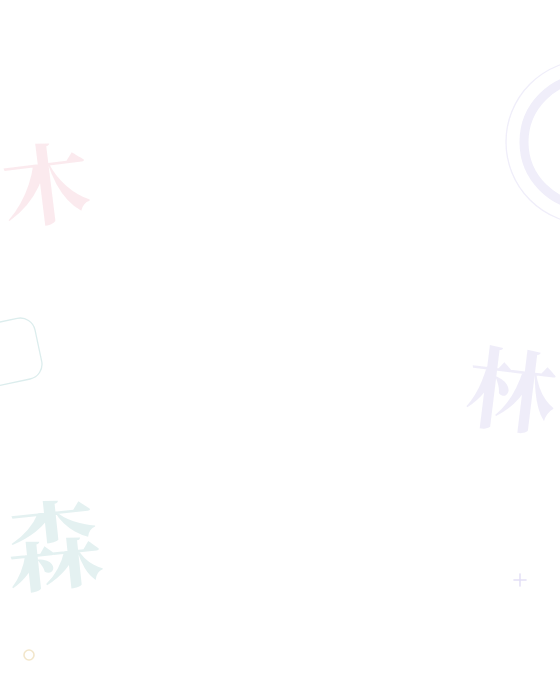
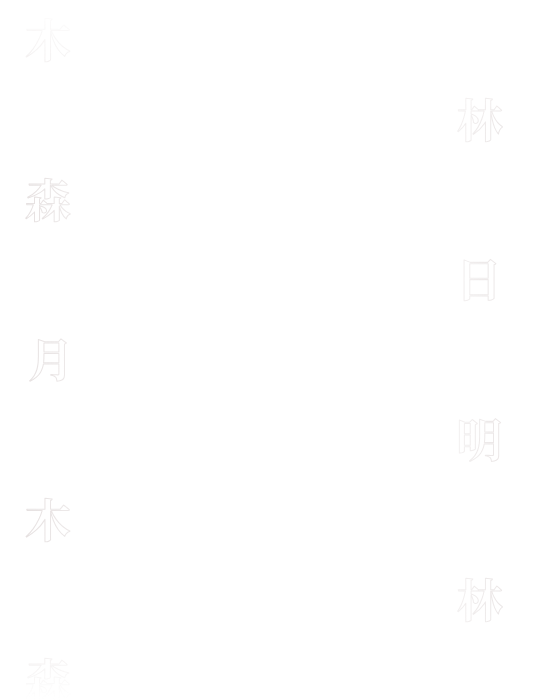
Blend background kanji into a subtle repeating print

Changed region(s): [[0.0304, 0.72, 0.1821, 0.84], [0.0304, 0.93, 0.0607, 0.96]]

diff --git a/src/theme.css b/src/theme.css
@@ -8,7 +8,7 @@
   --green:var(--accent);--muted:#687187;--line:#e8eaf1;
   --coral:var(--accent);--paper:#fff;
 }
-body{background:#fffefa url('/ui-background.svg') repeat;background-size:640px 720px}
+body{background:#fffefa url('/ui-background.svg?v=kanji-print') repeat;background-size:288px 480px}
 #app{position:relative;z-index:1}
 button{font-weight:750}
 button:focus-visible,a:focus-visible,input:focus-visible{outline-color:#5369ef}
@@ -64,7 +64,7 @@ button:active:not(:disabled){transform:translateY(1px)}
 .stat:last-child strong{color:#00a56c}
 .minor-stats{gap:26px}
 .mobile-pause{background:#f6f6f7;border:1px solid #e5e7ec;color:#526078;display:grid;place-items:center}
-.board{background:#fff url('/board-background.svg') center / 100% 100% no-repeat;border-radius:0 0 14px 14px;margin:0 -10px;border-bottom:1px solid #ecedf5}
+.board{background:#fff url('/board-background.svg?v=kanji-print') center / 100% 100% no-repeat;border-radius:0 0 14px 14px;margin:0 -10px;border-bottom:1px solid #ecedf5}
 .board-status{color:#65718b;font-weight:700;font-size:14px;top:18px;right:18px}
 .gesture-cue{position:absolute;top:12px;bottom:auto;left:50%;transform:translateX(-50%);display:flex;align-items:center;gap:9px;color:#5c6f9f;pointer-events:none;white-space:nowrap}.gesture-cue span{font-size:13px;font-weight:750}
 .gesture-cue svg{width:132px;height:34px;display:block}.swipe-hand{animation:swipe-demo 2.4s ease-in-out infinite}

diff --git a/README.md b/README.md
@@ -112,6 +112,8 @@ npm run check:release -- --api https://<Worker URL> --game https://<ゲームURL
 
 PNGは `tools/build-discovery-cards.ts` で生成し，`public/kanji-cards/` に追跡する．再生成には `assets/fonts/README.md` の元フォントと `@napi-rs/canvas` が必要で，`KANJI_CANVAS_MODULE` でそのローカルモジュールのパスを指定して `node --import tsx tools/build-discovery-cards.ts` を実行する．HTMLは `VITE_PUBLIC_URL` が設定されたビルドでViteが生成する．CIでは全共有対象のPNG・寸法・専用リンク・公開メタ情報を検査する．
 
+背景の漢字模様は，同じ `KANJI_CANVAS_MODULE` を指定して `node tools/build-backgrounds.mjs` で再生成する．ゲームの輪郭データから筆画の重なりを統合し，`public/*-background.svg` とPC・スマホ幅の背景単体プレビューを出力する．公開サイトでは静的SVGだけを読み込み，描画用の追加ライブラリや通信は使わない．
+
 結果画面・ランキングの自己ベストから「Xでシェア」を押すと，最高到達時の塔と得点を1200×630のPNGにする．WorkerのPOST /sharesで画像と記録を保存し，/s/共有ID の専用リンクを作る．このページは最初のHTMLにXカード・OGPメタ情報を含み，画像URLは /s/共有ID/image.png で返す．リンクを開いた利用者はGAME_URLへ移動して新しいゲームを開始し，JavaScriptが無効でも「遊ぶ」リンクを使える．投稿本文はURL分を含めてXの文字数に収まるよう，作った字の列挙を必要に応じて省略する．Xの投稿確定は利用者が行う．
 
 画像の自動アップロードや定期取得は行わない（自動で送るのはゲーム終了時の匿名の利用状況1回だけである）．同じ端末・同じ記録は専用リンクを再利用し，別のサーバーが発行したリンクは再利用しない．画像はPNGのBase64で260,000文字以下（復号後は最大約195KB），サーバーで署名・IHDR・寸法・IENDを検査する．新規作成は直近24時間で1端末10件・全体200件までである．画像と記録の公開はリンクを持つ人が対象で，リンクを保つため自動削除はしない．画像の配信は長期キャッシュのヘッダーを付け，既存のカード画像を別の記録で上書きしない．ランキング送信とは別で，名前は共有リンクに含めない．

diff --git a/docs/progress.md b/docs/progress.md
@@ -1,5 +1,10 @@
 # 制作状況
 
+## 2026-10-22 背景の調整
+
+- 背景の漢字を，淡いグレージュの輪郭線・同じ大きさ・正立した配置に揃えた．「木・林・森・日・月・明」を等間隔で繰り返し，輪・四角・点などの別々の飾りをなくした．盤面では中央・上端・下端に向かって薄くし，ゲームの字と重なる場所を白く保つ．
+- 背景SVGを横長・縦長に引き伸ばさず，端末の縦横比が変わっても漢字の形を保つようにした．元の字体の重なる筆画は統合してから輪郭にする．生成は `tools/build-backgrounds.mjs`，目視用の背景画像は `docs/*background*preview.png` に保存する．
+
 ## 2026-10-21 現在
 
 - 公開準備として，送信直後に返す順位を表示と同じ90日間・同順位（種目の値→他の2値→先着）の条件で3種目分計算し，結果画面に3種目の順位を表示するようにした．1分6件の送信制限はINSERT文の条件に移し，同時要求でもすり抜けない．

diff --git a/docs/release-record.md b/docs/release-record.md
@@ -62,6 +62,12 @@ npx wrangler deploy --dry-run --outdir dist-worker --env dev # 開発環境
 
 実機のブラウザーからの操作（スマホ・PC），Xの投稿画面への遷移，X上のカード実表示は未確認である．
 
+## 背景の調整（2026-10-22）
+
+背景をグレージュの漢字の輪郭による反復模様へ変更した．色・大きさ・向きを統一し，盤面中央と上下端では淡く消えるようにした．SVGに漢字の形を埋め込み，縦横比に合わせて字形が伸びないようにした．古い背景キャッシュを使わないようCSSの画像URLに版を付けた．
+
+背景単体を640×720，560×700，360×500で生成して確認し，公開URL付きの `npm run build` が成功した．今回の目視確認は背景アセットの確認であり，実機ブラウザー画面の操作確認ではない．
+
 ## 残件と，必要な操作
 
 ### 漢字ごとの共有画像の更新（2026-10-21）
